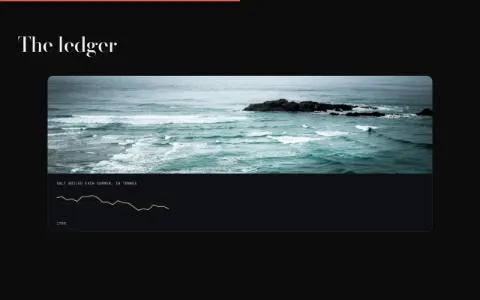
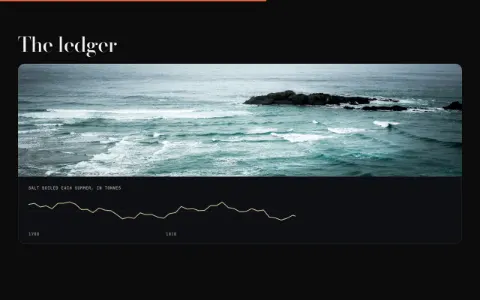
Scroll effects: ten components; Lenis re-measures on refresh
Batch E, each passing check and smoke and reviewed at three sizes in both
themes, scrolled states included: sticky-stages, clip-door,
css-scroll-timeline, docked-media, horizontal-rail, frame-scrub,
drawn-path, scrub-thresholds, sticky-stack, title-tunnel.

Shared fixes from the batch's notes:
- useLenis re-measures on every ScrollTrigger refresh, so sections that
  grow after Lenis measured the page no longer cap the scroll.
- authoring.md: tweens made after useGsap returns need context.add();
  mount synchronously and arm heavy work afterwards; final page height
  before useLenis or a ScrollTrigger.refresh() after changing it.

Claude-Session: https://claude.ai/code/session_01FSExaLDapN7Ue3cgEwCTvE

diff --git a/src/demo-kit/lenis.js b/src/demo-kit/lenis.js
@@ -11,8 +11,13 @@ export function useLenis(ctx, options = {}) {
   gsap.ticker.add(raf);
   gsap.ticker.lagSmoothing(0);
   lenis.on('scroll', ScrollTrigger.update);
+  // Sections that grow after Lenis measured the page (a rail or a tunnel sized in script) would cap the scroll at
+  // the old height: re-measure whenever ScrollTrigger refreshes.
+  const remeasure = () => lenis.resize();
+  ScrollTrigger.addEventListener('refresh', remeasure);
   window.lenis = lenis;
   ctx.onCleanup(() => {
+    ScrollTrigger.removeEventListener('refresh', remeasure);
     gsap.ticker.remove(raf);
     lenis.destroy();
     if (window.lenis === lenis) delete window.lenis;

diff --git a/docs/authoring.md b/docs/authoring.md
@@ -144,6 +144,9 @@ export default function mount(root, options, ctx) {
 - The demo owns the frame: window scroll, the cursor and the viewport are its own. Everything it starts must stop through `ctx` (the runtime also removes nodes appended to `<body>` and restores attributes on `<html>` and `<body>`).
 - Respect every path the recipe has: keyboard, coarse pointer, reduced motion, no WebGL. A WebGL demo must render something without WebGL (a drawn still or a DOM version).
 - Don't burn frames off-screen or at rest: stop the ticker when nothing moves, gate canvas loops with `whileVisible`.
+- Tweens and ScrollTriggers created after `useGsap` returns (in a promise callback, a rebuild after `update()`) are only reverted on unmount when made inside `context.add(() => { … })`.
+- Mount synchronously and arm heavy work afterwards (frames to render, textures to load): the runtime reports ready when `mount()` resolves, and the frame and smoke scripts wait at most 30 s.
+- Make the page's final height known before `useLenis`, or call `ScrollTrigger.refresh()` after changing it; Lenis re-measures on every refresh.
 - Storage access goes inside `try { } catch { }`.
 - Focus moved by script shows a ring only when the visitor is using the keyboard: call `el.focus({ focusVisible: false })` unless the opener was pressed with a key (`event.detail === 0` on a click).
 - Don't move focus from `action(id)`: actions are pressed in the shell's toolbar, and a `focus()` inside the frame pulls the visitor out of it. Move focus only from the demo's own controls (a menu button opening its menu).
